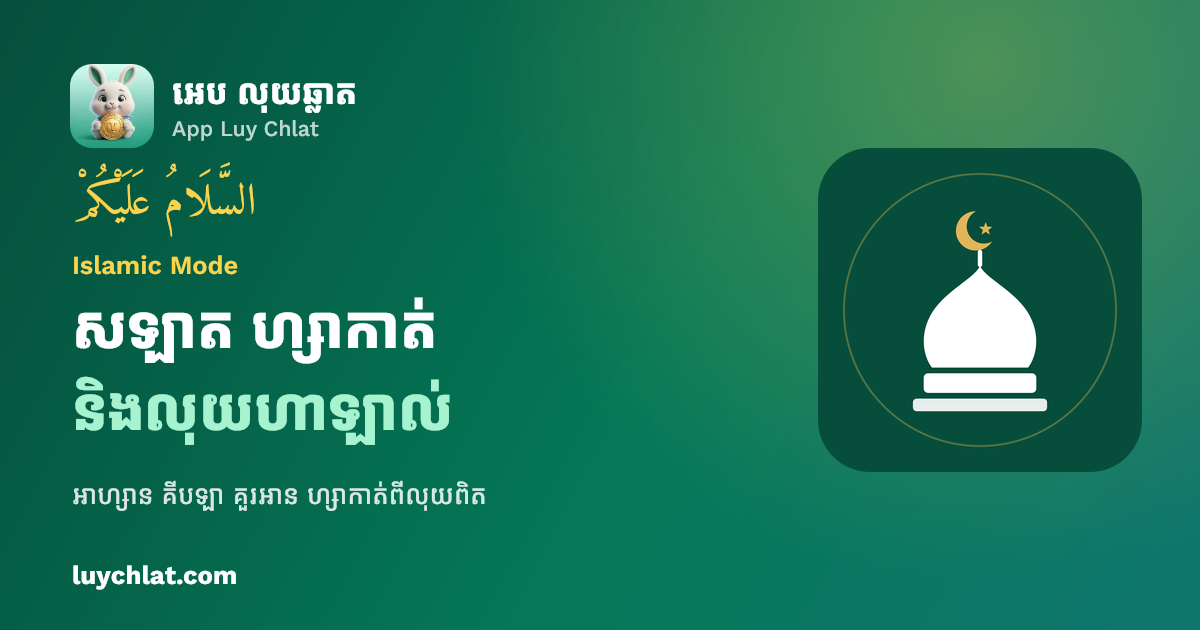
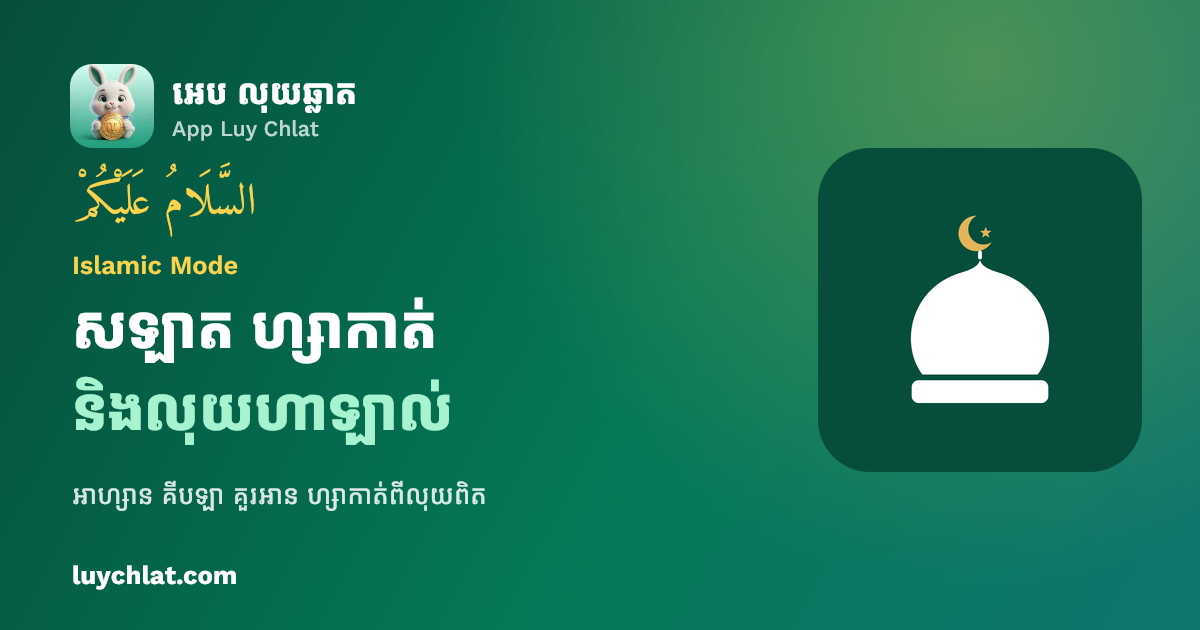
feat(brand): the Islamic mark, bold and simple — a large round dome on one base, a short finial, the crescent with the star inside it (founder, 5/11/2026)
Khmer: រូបតំណាងឥស្លាមថ្មី៖ ដំបូលមូលធំ បាតមួយជាន់ ទងខ្លី ផ្កាយក្នុងព្រះចន្ទ

diff --git a/src/lib/islamic-brand.test.ts b/src/lib/islamic-brand.test.ts
@@ -11,7 +11,7 @@ describe("Islamic logo variant (founder, 18/10/2026; the mosque dome since 5/11/
     const gen = read("scripts/generate-islamic-logo.mjs")
     assert.match(gen, /const EMERALD = "#064e3b"/)
     assert.match(gen, /const GOLD = "#e2b55a"/)
-    assert.match(gen, /the onion dome/)
+    assert.match(gen, /a large round dome on one base/)
   })
   it("the sizes: 1024 for the Telegram channel, 512 (and light) for the in-app icon", async () => {
     const sharp = (await import("sharp")).default
